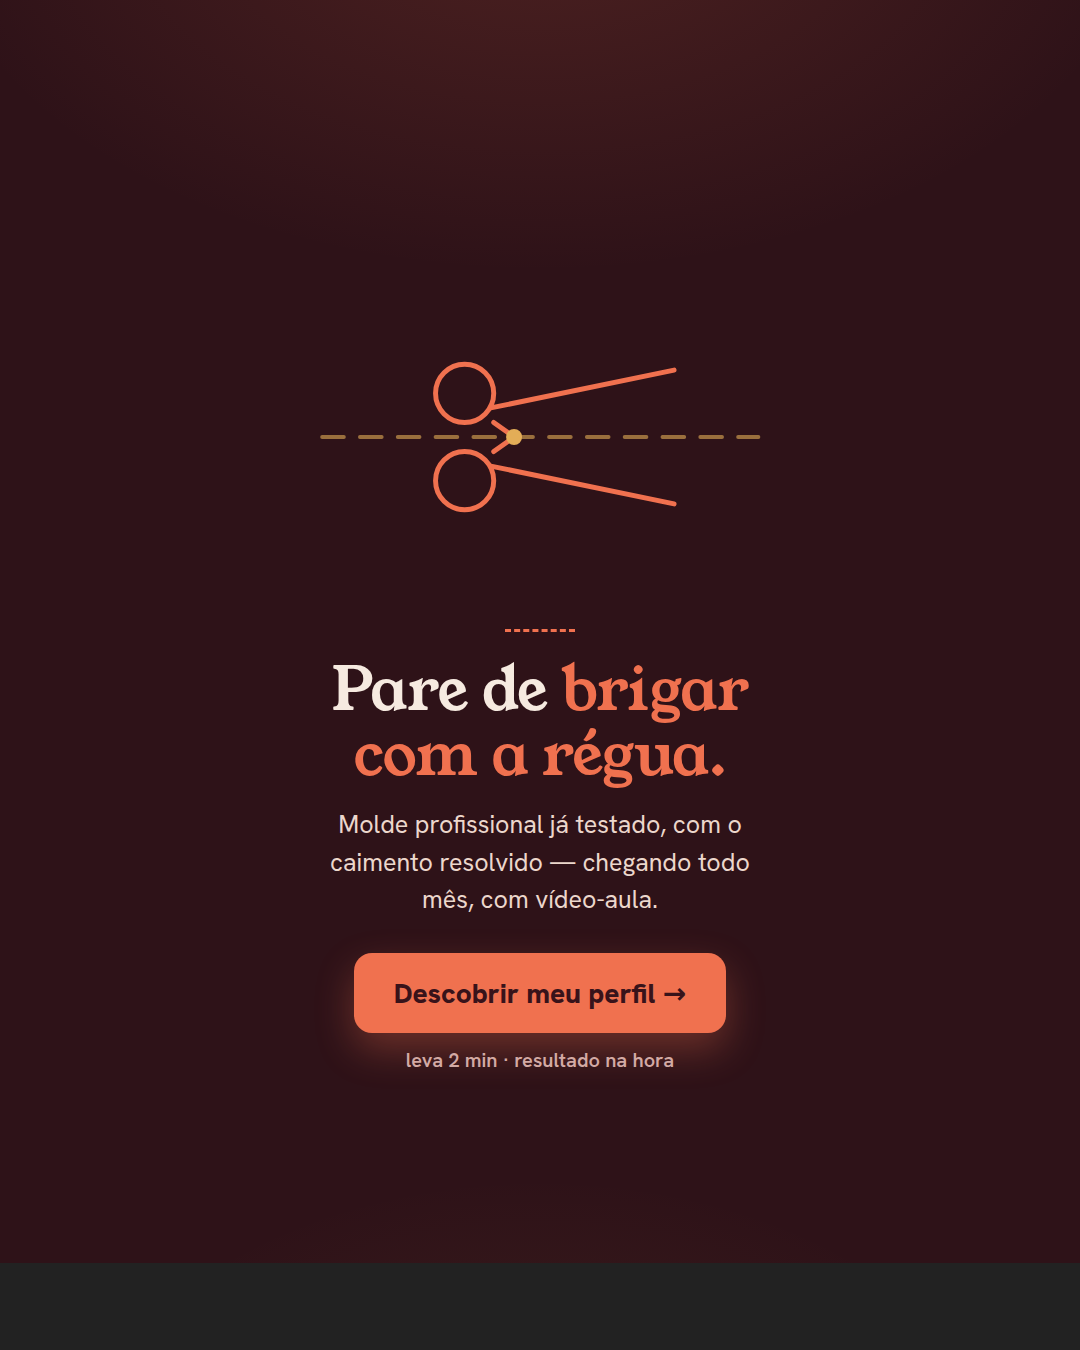
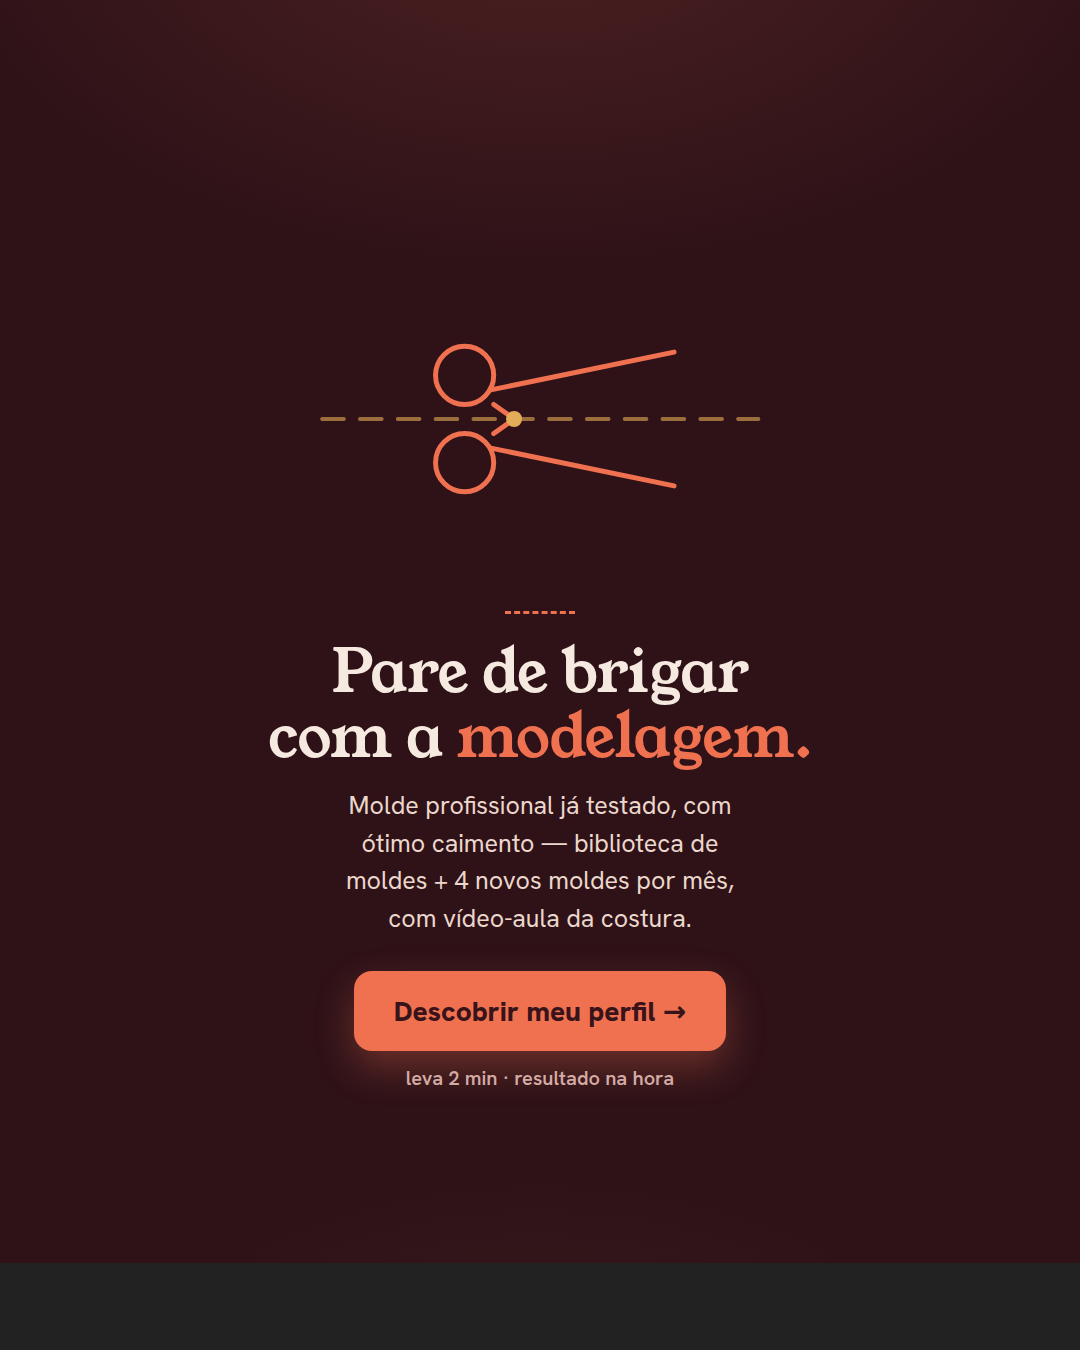
copy(criativos): tesoura -> "Pare de brigar com a modelagem"
headline: "Pare de brigar com a modelagem"; body: molde testado, ótimo caimento,
biblioteca + 4 novos moldes/mês com vídeo-aula. (feed + stories)

Claude-Session: https://claude.ai/code/session_016H96bb8eAFfmjxwbFd5sg9

Changed region(s): [[0.2444, 0.4667, 0.7333, 0.8089], [0.3972, 0.2489, 0.6417, 0.3733]]

diff --git a/criativos/sem-foto/tesoura-feed.html b/criativos/sem-foto/tesoura-feed.html
@@ -20,5 +20,5 @@ h1 b{color:var(--coral);font-weight:400}
 <circle cx="118" cy="80" r="20"/><circle cx="118" cy="140" r="20"/>
 <path d="M136 90 L262 64"/><path d="M136 130 L262 156"/>
 <path d="M152 110 L138 100 M152 110 L138 120"/></g>
-<circle cx="152" cy="110" r="5.5" fill="#e3ad57"/></svg></div><div class="seam"></div><h1>Pare de <b>brigar com a régua.</b></h1><p class="sub">Molde profissional já testado, com o caimento resolvido — chegando todo mês, com vídeo-aula.</p><span class="cta">Descobrir meu perfil →</span><div class="micro">leva 2 min · resultado na hora</div>
+<circle cx="152" cy="110" r="5.5" fill="#e3ad57"/></svg></div><div class="seam"></div><h1>Pare de brigar com a <b>modelagem.</b></h1><p class="sub">Molde profissional já testado, com ótimo caimento — biblioteca de moldes + 4 novos moldes por mês, com vídeo-aula da costura.</p><span class="cta">Descobrir meu perfil →</span><div class="micro">leva 2 min · resultado na hora</div>
 </div></body></html>

diff --git a/criativos/sem-foto/tesoura-stories.html b/criativos/sem-foto/tesoura-stories.html
@@ -20,5 +20,5 @@ h1 b{color:var(--coral);font-weight:400}
 <circle cx="118" cy="80" r="20"/><circle cx="118" cy="140" r="20"/>
 <path d="M136 90 L262 64"/><path d="M136 130 L262 156"/>
 <path d="M152 110 L138 100 M152 110 L138 120"/></g>
-<circle cx="152" cy="110" r="5.5" fill="#e3ad57"/></svg></div><div class="seam"></div><h1>Pare de <b>brigar com a régua.</b></h1><p class="sub">Molde profissional já testado, com o caimento resolvido — chegando todo mês, com vídeo-aula.</p><span class="cta">Descobrir meu perfil →</span><div class="micro">leva 2 min · resultado na hora</div>
+<circle cx="152" cy="110" r="5.5" fill="#e3ad57"/></svg></div><div class="seam"></div><h1>Pare de brigar com a <b>modelagem.</b></h1><p class="sub">Molde profissional já testado, com ótimo caimento — biblioteca de moldes + 4 novos moldes por mês, com vídeo-aula da costura.</p><span class="cta">Descobrir meu perfil →</span><div class="micro">leva 2 min · resultado na hora</div>
 </div></body></html>
